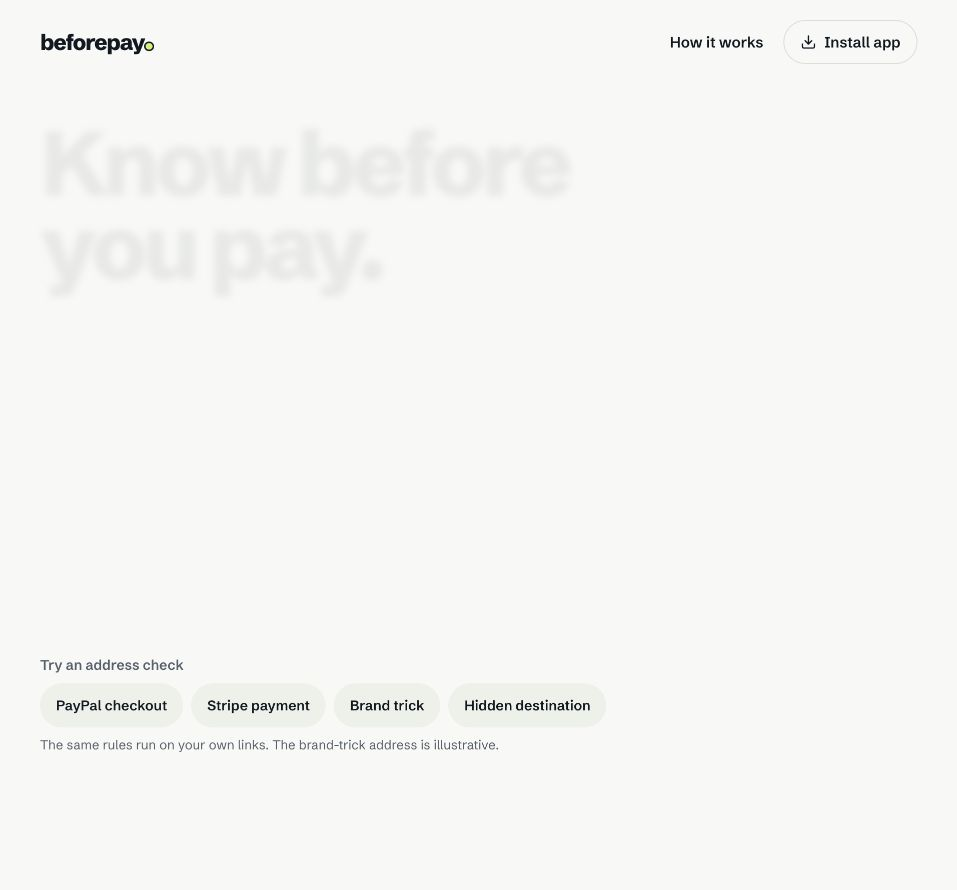
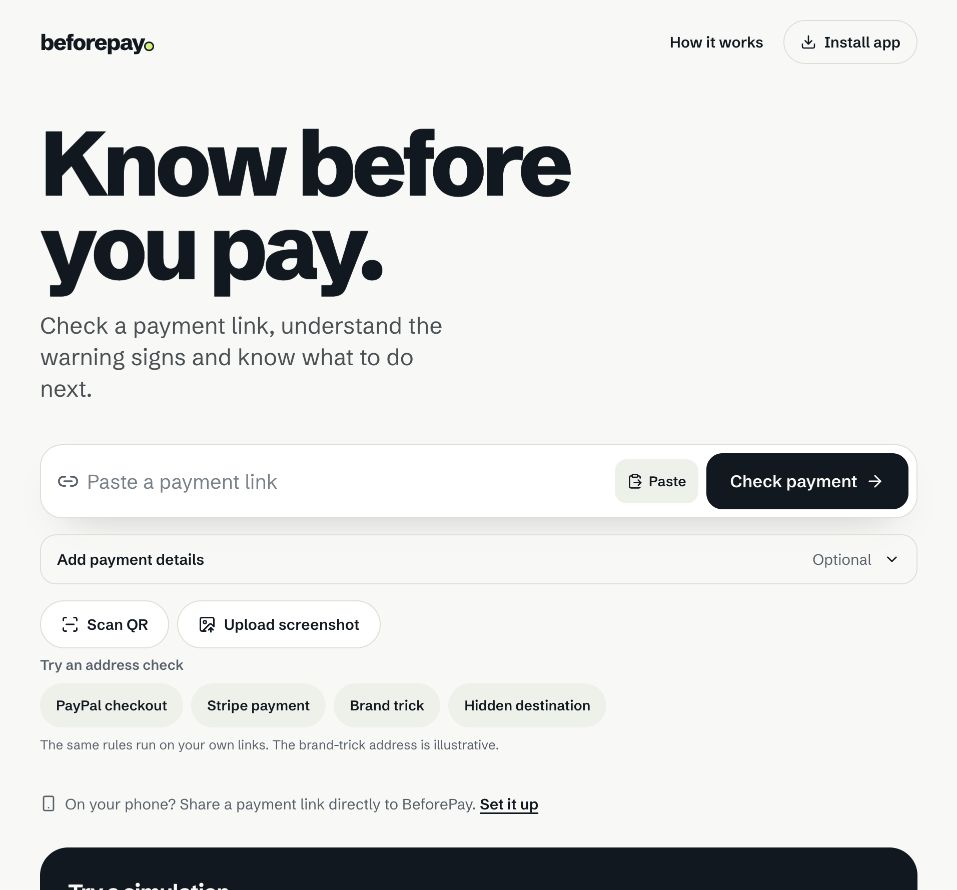
Keep content visible immediately and refresh the product preview

diff --git a/src/styles.css b/src/styles.css
@@ -82,14 +82,10 @@ input {
 /* Entrance: content is visible by default; motion only refines it. */
 @keyframes rise {
   from {
-    opacity: 0;
     transform: translateY(14px);
-    filter: blur(4px);
   }
   to {
-    opacity: 1;
     transform: none;
-    filter: none;
   }
 }
 .rise {
